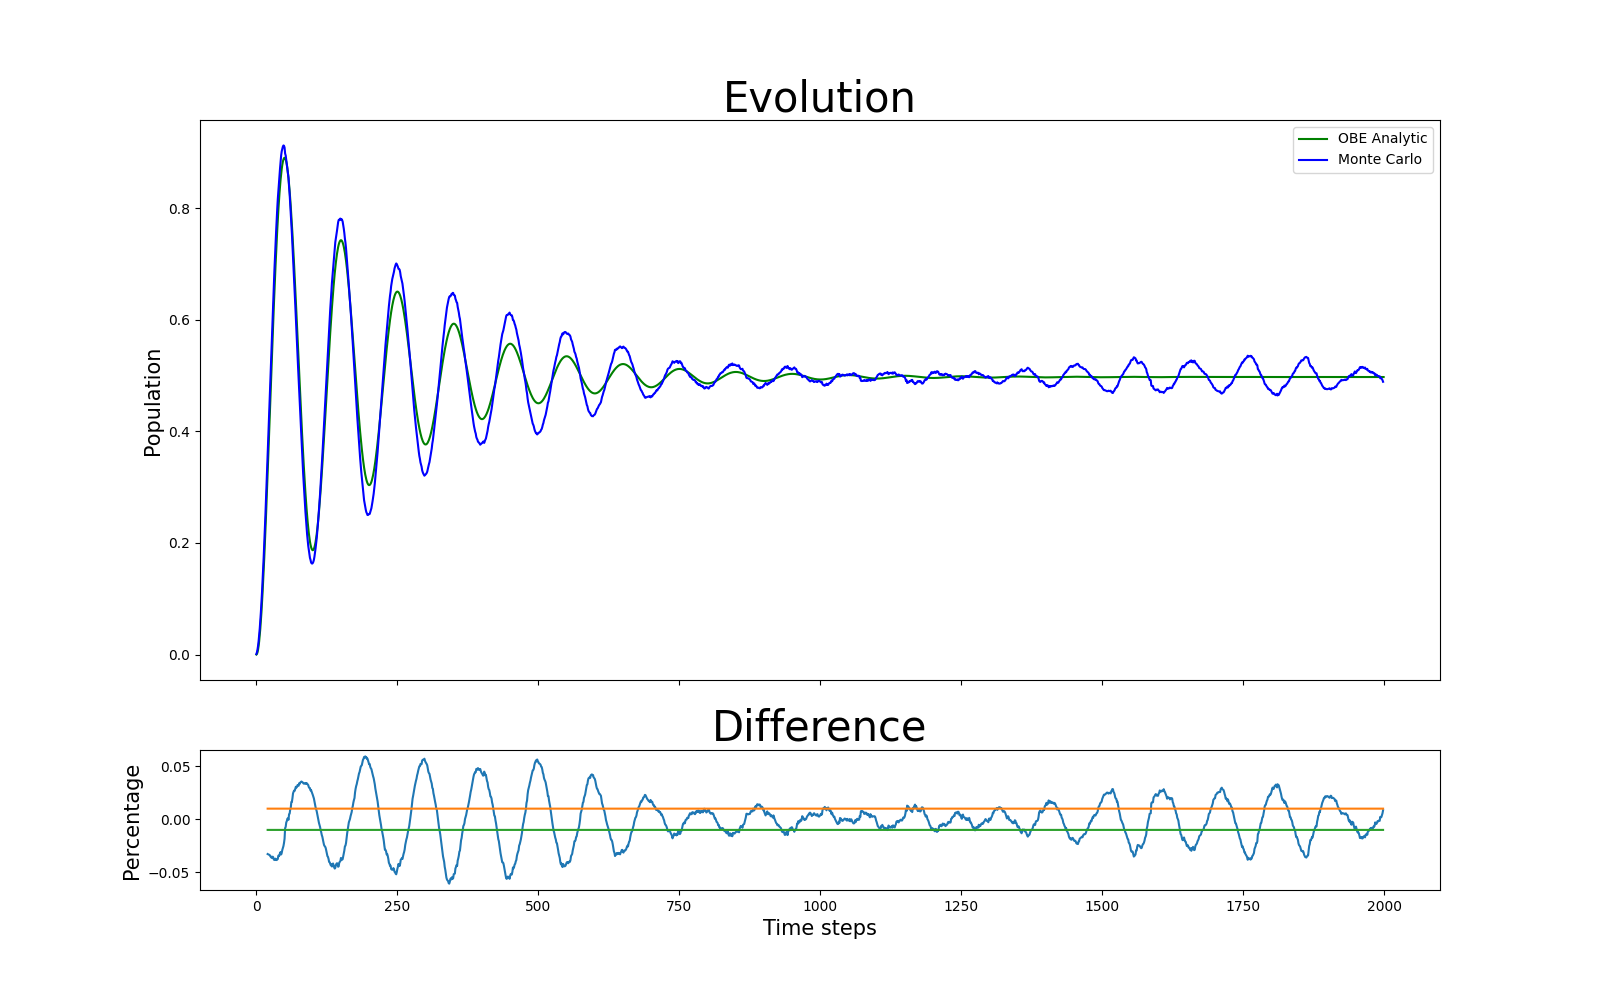
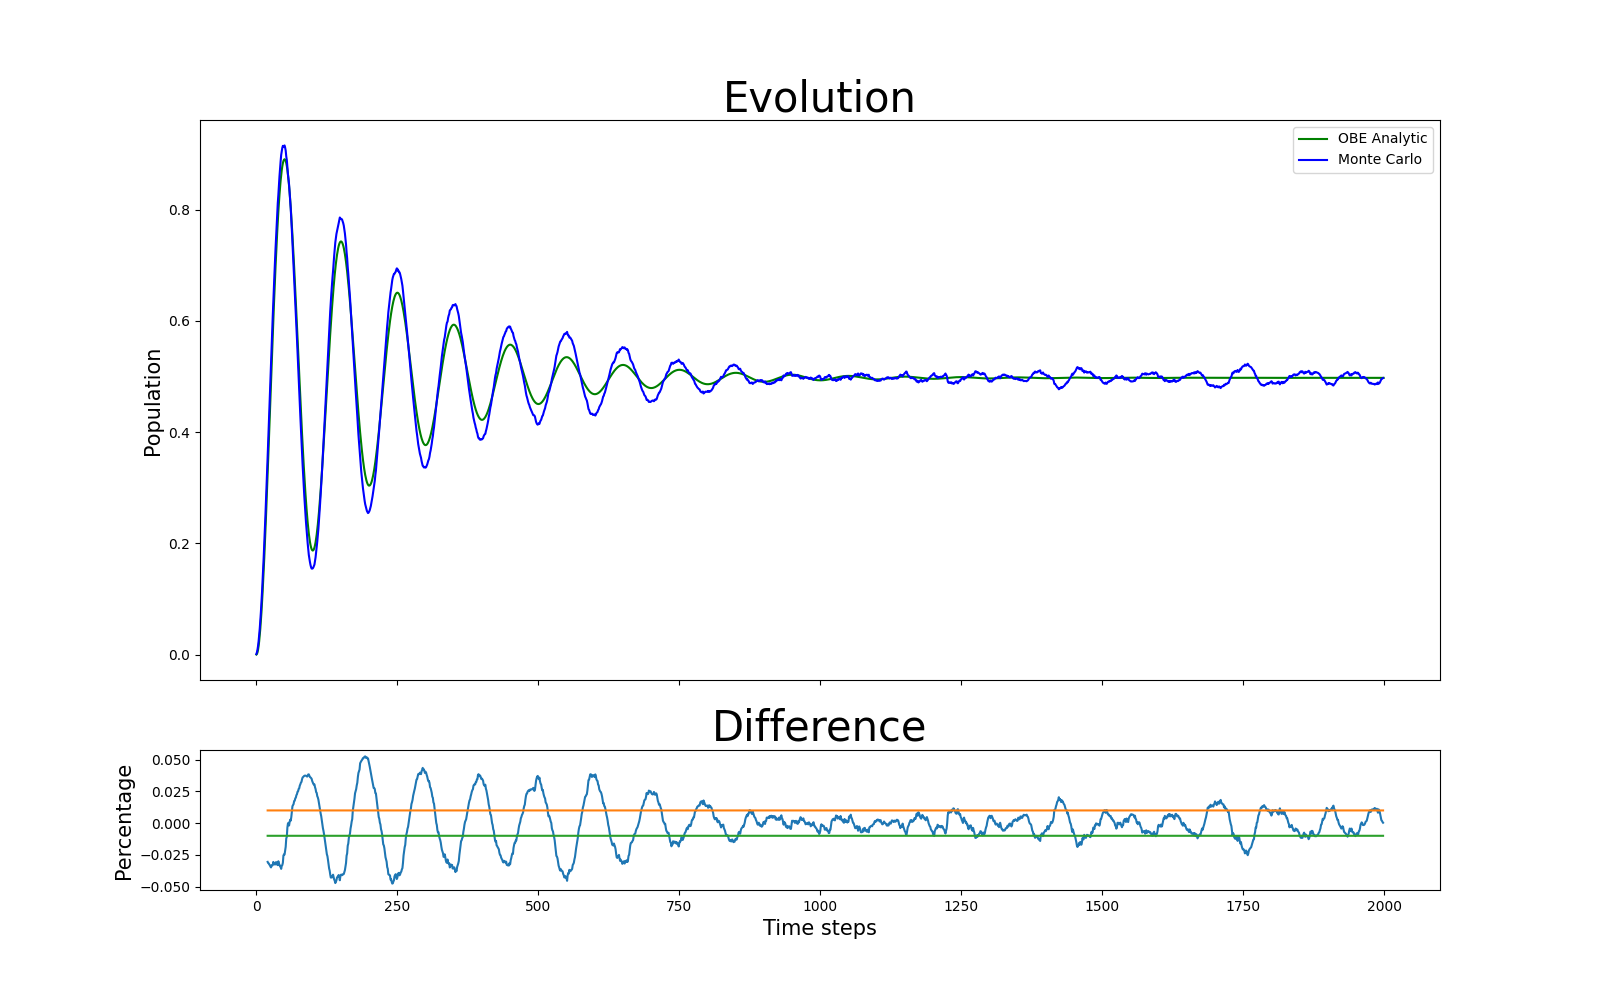
update the tracing of a single qubit

diff --git a/Main.py b/Main.py
@@ -21,7 +21,33 @@ n_cpu = 6
 n_particle = 1000
 total_task = int(n_particle * paras.time / paras.delt)
 current_task = 0
+wow = r"""
 
+                       _oo0oo_
+                      o8888888o
+                      88" . "88
+                      (| -_- |)
+                      0\  =  /0
+                    ___/`---'\___
+                  .' \\|     |# '.
+                 / \\|||  :  |||# \
+                / _||||| -:- |||||- \
+               |   | \\\  -  #/ |   |
+               | \_|  ''\---/''  |_/ |
+               \  .-\__  '-'  ___/-. /
+             ___'. .'  /--.--\  `. .'___
+          ."" '<  `.___\_<|>_/___.' >' "".
+         | | :  `- \`.;`\ _ /`;.`/ - ` : | |
+         \  \ `_.   \_ __\ /__ _/   .-` /  /
+     =====`-.____`.___ \_____/___.-`___.-'=====
+                       `=---='
+
+
+     ~~~~~~~~~~~~~~~~~~~~~~~~~~~~~~~~~~~~~~~~~~~
+               佛祖保佑         永无BUG
+            Buddha bless no bug forever
+     ~~~~~~~~~~~~~~~~~~~~~~~~~~~~~~~~~~~~~~~~~~~
+"""
 
 def one_complete_evolution(func1, func2, flag):  # function used for one evolution
 
@@ -35,8 +61,8 @@ def one_complete_evolution(func1, func2, flag):  # function used for one evoluti
 
 
 def one_particle():  # function for a particle in the whole time period
-    flag = 0
-    flag_tracing = [0]
+    flag = []
+    flag_tracing = []
     funcs = np.array(y1)
     tracing1 = []
     tracing = []
@@ -63,13 +89,13 @@ def task(q, n):
         for i in k:
             function, re, flag = one_particle()
 
-            if not res:
+            if not flags:
                 res = re
                 flags = flag
             else:
                 for j in range(len(res)):
                     res[j] = res[j] + re[j]
-                    flags[j] = flags[j] + flag[j]
+                    #flags[j] = flags[j] + flag[j]
 
     # print("res = ", res)
     q.put([res, flags])
@@ -82,7 +108,7 @@ def parallel():  # multi core processing
     procs = []
 
     chunk_size = int(total / n_cpu)
-    print("Number of used: ", n_cpu)
+    print("Number of Core used: ", n_cpu)
     print("total task number: ", total_task)
     print("estimated time: ", total_task / n_cpu / 10000, "s")
     begin = time.time()
@@ -146,7 +172,7 @@ def diff(a, b):  # calculate the percentage difference
 
 
 if __name__ == '__main__':
-
+    print(wow)
     final, times = parallel()
     finals = []
     finals2 = []
@@ -196,3 +222,17 @@ if __name__ == '__main__':
     fig.savefig("t={}s,n_particle={}.png".format(round(paras.time, 1), n_particle))
     fig.show()
 
+
+    # plot the collapse time against time
+    new1 = finals2[0]
+    new = np.ravel(new1)
+    length = len(new)
+    xs = range(length)
+    xs = np.array(xs)/paras.delt/1000
+    fig1 = plt.figure()
+    print(len(xs))
+    print(len(new))
+    plt.plot(xs, np.array(new))
+    plt.title("{}".format(round(paras.time, 1)))
+    plt.savefig("SingleTracing.png")
+    plt.show()

diff --git a/functions.py b/functions.py
@@ -21,12 +21,15 @@ def comparison(function, r, flag):
     if r < innerproduct:
         # print("Jump failed")
         result = function / np.sqrt(innerproduct)
-
+        #flag = flag + 1
     else:
         # print("Jump succeed")
         #result = jump(function) / np.sqrt(inner(jump(function)))
         result = np.matrix([[1], [0]])  # use of daga calculation give the same method but lose precision
+        # for the time between collapse
+        #flag = 0
     temp = np.abs(np.conj(result[1])*result[1])
+    flag = temp
     # print(temp)
     return result, temp, flag
 
